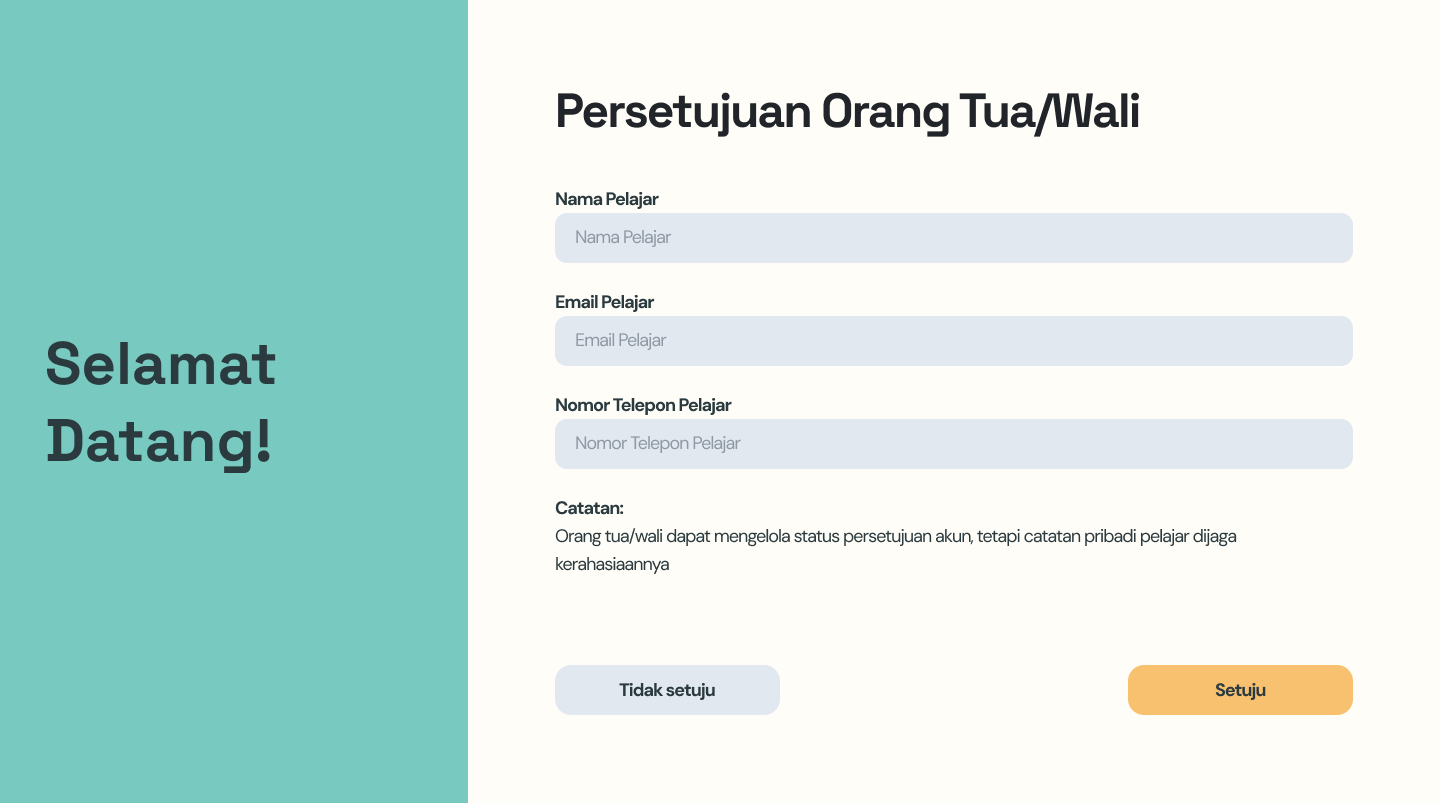
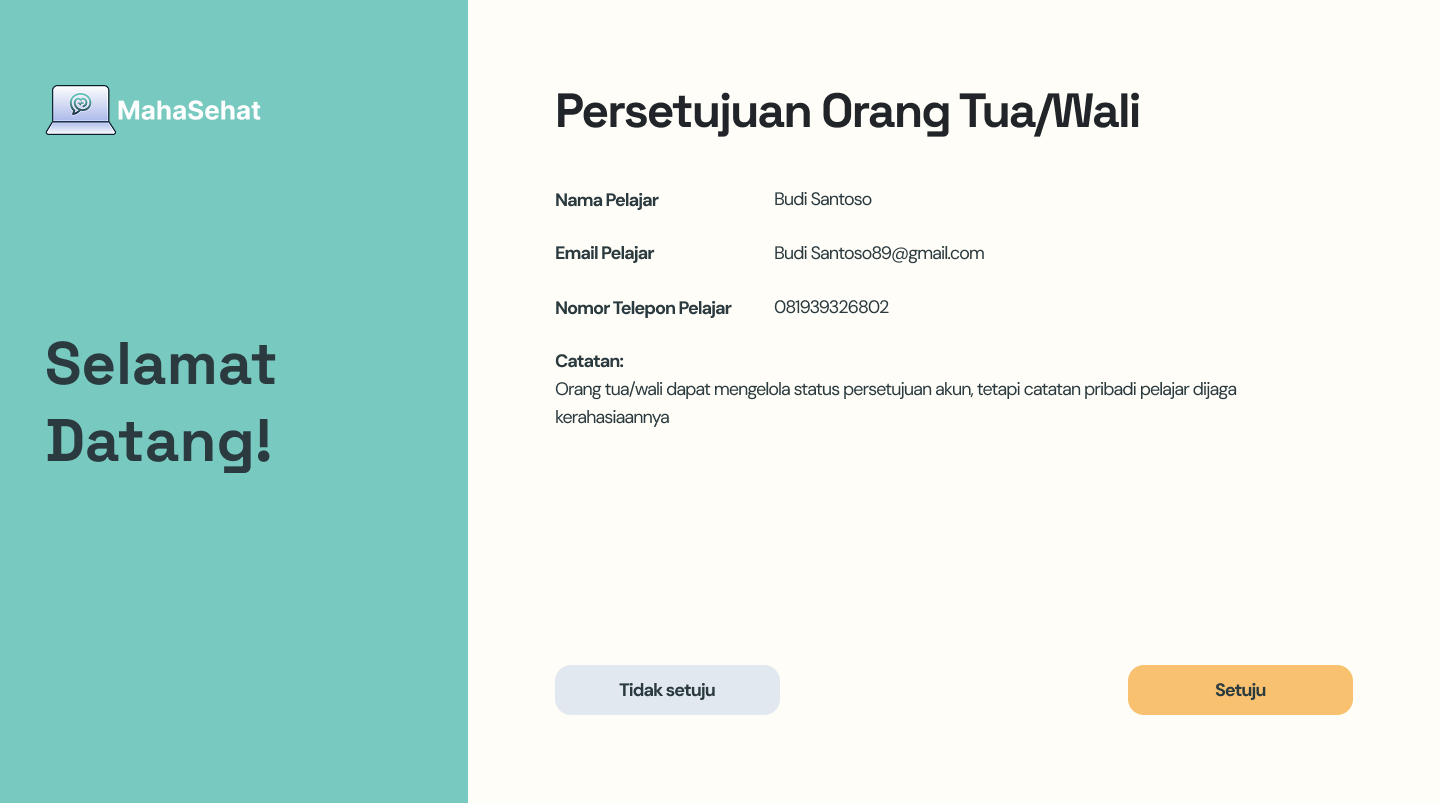
docs: add antarmuka 4-10

diff --git a/docs/M8/K03_G04_DPPL2.md b/docs/M8/K03_G04_DPPL2.md
@@ -2177,9 +2177,10 @@ Tabel 6.1. Spesifikasi Objek Antarmuka I-01
 | Id_Objek | Jenis | Konten | Keterangan |
 | :--- | :--- | :--- | :--- |
 | *Panel_Right* | *Side Panel/Container* | *Berisi semua elemen formulir registrasi* | *Wadah(container) utama di sisi kanan untuk menampung semua komponen interaktif formulir registrasi pelajar.* |
-| *Panel_Left* | *Side Panel/Container* | *Berisi logo MahaSehat dan teks sapaan* | *Wadah (container) visual di sisi kiri layar untuk branding dan teks penyambutan pengguna*. |
+| *Panel_Left* | *Side Panel/Container* | *Berisi logo MahaSehat dan teks sapaan* | *Wadah (container) visual di sisi kiri layar untuk branding dan teks penyambutan pengguna.* |
 | *Logo_App* | *Image/Logo* | *Logo MahaSehat* | *Menampilkan identitas/logo aplikasi MahaSehat di bagian atas panel kiri.* |
 | *Text_Greeting* | *Label/Text Header* | *Teks "Selamat Datang!"* | *Teks judul sapaan pembuka bagi pengguna yang membuka halaman registrasi.* |
+| *Title_Registrasi* | *Text* | *Teks "Daftarkan Akun Anda"* | *Judul halaman yang menandakan ini adalah halaman pendaftaran akun.* |
 | *Tab_Role_Pelajar* | *Button/Tab* | *Teks "Pelajar"* | *Menampilkan formulir pendaftaran khusus peran Pelajar (keadaan aktif).* |
 | *Label_Nama* | *Text* | *Teks "Nama"* | *Label untuk field input nama.* |
 | *Input_Nama* | *Input Text Field* | *Placeholder "Nama"* | *Tempat pengguna (pelajar) memasukkan nama mereka.* |
@@ -2218,9 +2219,10 @@ Tabel 6.2. Spesifikasi Objek Antarmuka I-02
 | Id_Objek | Jenis | Konten | Keterangan |
 | :--- | :--- | :--- | :--- |
 | *Panel_Right* | *Side Panel/Container* | *Berisi semua elemen formulir registrasi* | *Wadah(container) utama di sisi kanan untuk menampung semua komponen interaktif formulir registrasi orang tua/wali.* |
-| *Panel_Left* | *Side Panel/Container* | *Berisi logo MahaSehat dan teks sapaan* | *Wadah (container) visual di sisi kiri layar untuk branding dan teks penyambutan pengguna*. |
+| *Panel_Left* | *Side Panel/Container* | *Berisi logo MahaSehat dan teks sapaan* | *Wadah (container) visual di sisi kiri layar untuk branding dan teks penyambutan pengguna.* |
 | *Logo_App* | *Image/Logo* | *Logo MahaSehat* | *Menampilkan identitas/logo aplikasi MahaSehat di bagian atas panel kiri.* |
 | *Text_Greeting* | *Label/Text Header* | *Teks "Selamat Datang!"* | *Teks judul sapaan pembuka bagi pengguna yang membuka halaman registrasi.* |
+| *Title_Registrasi* | *Text* | *Teks "Daftarkan Akun Anda"* | *Judul halaman yang menandakan ini adalah halaman pendaftaran akun.* |
 | *Tab_Role_OrangTuawali* | *Button/Tab* | *Teks "Orang Tua/Wali"* | *Menampilkan formulir pendaftaran khusus peran Orang Tua/Wali (keadaan aktif).* |
 | *Label_Nama* | *Text* | *Teks "Nama"* | *Label untuk field input nama.* |
 | *Input_Nama* | *Input Text Field* | *Placeholder "Nama"* | *Tempat pengguna (orang tua/wali) memasukkan nama mereka.* |
@@ -2252,9 +2254,10 @@ Tabel 6.3. Spesifikasi Objek Antarmuka I-03
 | Id_Objek | Jenis | Konten | Keterangan |
 | :--- | :--- | :--- | :--- |
 | *Panel_Right* | *Side Panel/Container* | *Berisi semua elemen formulir registrasi* | *Wadah(container) utama di sisi kanan untuk menampung semua komponen interaktif formulir registrasi tenaga kesehatan.* |
-| *Panel_Left* | *Side Panel/Container* | *Berisi logo MahaSehat dan teks sapaan* | *Wadah (container) visual di sisi kiri layar untuk branding dan teks penyambutan pengguna*. |
+| *Panel_Left* | *Side Panel/Container* | *Berisi logo MahaSehat dan teks sapaan* | *Wadah (container) visual di sisi kiri layar untuk branding dan teks penyambutan pengguna.* |
 | *Logo_App* | *Image/Logo* | *Logo MahaSehat* | *Menampilkan identitas/logo aplikasi MahaSehat di bagian atas panel kiri.* |
 | *Text_Greeting* | *Label/Text Header* | *Teks "Selamat Datang!"* | *Teks judul sapaan pembuka bagi pengguna yang membuka halaman registrasi.* |
+| *Title_Registrasi* | *Text* | *Teks "Daftarkan Akun Anda"* | *Judul halaman yang menandakan ini adalah halaman pendaftaran akun.* |
 | *Tab_Role_TenagaKesehatan* | *Button/Tab* | *Teks "Tenaga Kesehatan"* | *Menampilkan formulir pendaftaran khusus peran Tenaga Kesehatan (keadaan aktif).* |
 | *Label_Nama* | *Text* | *Teks "Nama"* | *Label untuk field input nama.* |
 | *Input_Nama* | *Input Text Field* | *Placeholder "Nama"* | *Tempat pengguna (tenaga kesehatan) memasukkan nama mereka.* |
@@ -2272,6 +2275,180 @@ Tabel 6.3. Spesifikasi Objek Antarmuka I-03
 | *Input_KonfirmasiKataSandi* | *Input Text Field* | *Placeholder "Konfirmasi Kata Sandi"* | *Tempat pengguna (tenaga kesehatan) memasukkan ulang kata sandi mereka untuk memastikan kecocokan dengan input sebelumnya. Tipe input "password".* |
 | *Btn_Daftar* | *Button* | *"Daftar"* | *Jika diklik, akan memulai validasi data. Jika valid, akun tenaga kesehatan berhasil dibuat.* |
 | *Link_Masuk* | *Link Text* | *"Sudah memiliki akun? Masuk"* | *Mengarahkan pengguna yang sudah memiliki akun ke masuk akun.* |
+
+## 6.4 Rancangan Antarmuka I-04
+
+**Antarmuka:** *I-04*  
+**Nama Layar:** *RegistrationSuccessPelajarPage*
+
+<p align="center">
+<img alt="Rancangan Antarmuka I-04 - RegistrationSuccessPelajar" src="./assets/antarmuka/akun-berhasil-diajukan.png" width="50%">
+</p>
+<p align="center">
+<i>Gambar 6.4. Rancangan Antarmuka I-04 - RegistrationSuccessPelajarPage</i>
+</p>
+
+Tabel 6.4. Spesifikasi Objek Antarmuka I-04
+
+| Id_Objek | Jenis | Konten | Keterangan |
+| :--- | :--- | :--- | :--- |
+| *Card_Success* | *Box/Card* | *Berisi semua elemen status registrasi* | *Wadah(container) untuk semua elemen notifikasi sukses.* |
+| *Icon_Success* | *Icon* | *Ikon centang dalam lingkaran berwarna hijau* | *Ikon visual yang menandakan registrasi berhasil diajukan.* |
+| *Title_Success* | *Text* | *Teks "Pendaftaran Berhasil Dikirim!"* | *Judul yang menginformasikan bahwa pembuatan akun berhasil diajukan.* |
+| *Desc_Success* | *Text* | *Teks "Pendaftaran akun pelajar berhasil diajukan. Kami telah mengirimkan permintaan persetujuan kepada orang tua/wali Anda untuk mengaktifkan akun."* | *Penjelasan yang mengkonfirmasi pengajuan akun baru dan pengiriman konfirmasi persetujuan kepada orang tua/wali.* |
+| *Btn_Mengerti* | *Button* | *Teks "Mengerti"* | *Jika diklik, akan mengarahkan pengguna (pelajar) kembali ke halaman "RegistrationPagePelajar".* |
+
+## 6.5 Rancangan Antarmuka I-05
+
+**Antarmuka:** *I-05*  
+**Nama Layar:** *RegistrationSuccessPage*
+
+<p align="center">
+<img alt="Rancangan Antarmuka I-04 - RegistrationSuccess" src="./assets/antarmuka/akun-berhasil-dibuat.png" width="50%">
+</p>
+<p align="center">
+<i>Gambar 6.5. Rancangan Antarmuka I-05 - RegistrationSuccessPage</i>
+</p>
+
+Tabel 6.5. Spesifikasi Objek Antarmuka I-05
+
+| Id_Objek | Jenis | Konten | Keterangan |
+| :--- | :--- | :--- | :--- |
+| *Card_Success* | *Box/Card* | *Berisi semua elemen status registrasi* | *Wadah(container) untuk semua elemen notifikasi sukses.* |
+| *Icon_Success* | *Icon* | *Ikon centang dalam lingkaran berwarna hijau* | *Ikon visual yang menandakan registrasi berhasil diajukan.* |
+| *Title_Success* | *Text* | *Teks "Akun Berhasil Dibuat!"* | *Judul yang menginformasikan bahwa pembuatan akun berhasil.* |
+| *Desc_Success* | *Text* | *Teks "Akun Anda telah berhasil dibuat dan siap digunakan. Silakan masuk untuk mulai menjelajah."* | *Penjelasan yang mengkonfirmasi pembuatan akun dan menginstruksikan pengguna untuk masuk akun.* |
+| *Btn_Masuk* | *Button* | *Teks "Masuk"* | *Jika diklik, akan mengarahkan pengguna ke halaman "LoginPage".* |
+
+## 6.6 Rancangan Antarmuka I-06
+**Antarmuka:** *I-06*  
+**Nama Layar:** *KonfirmasiRegistrasiPage*
+
+<p align="center">
+<img alt="Rancangan Antarmuka I-06 - KonfirmasiRegistrasiPage" src="./assets/antarmuka/konfirmasi-registrasi-page.png" width="50%">
+</p>
+<p align="center">
+<i>Gambar 6.6. Rancangan Antarmuka I-06 - KonfirmasiRegistrasiPage</i>
+</p>
+
+Tabel 6.6. Spesifikasi Objek Antarmuka I-06
+
+| Id_Objek | Jenis | Konten | Keterangan |
+| :--- | :--- | :--- | :--- |
+| *Panel_Right* | *Side Panel/Container* | *Berisi semua elemen persetujuan orang tua/wali* | *Wadah(container) utama di sisi kanan untuk menampung rincian data pelajar dan tombol persetujuan.* |
+| *Panel_Left* | *Side Panel/Container* | *Berisi logo MahaSehat dan teks sapaan* | *Wadah (container) visual di sisi kiri layar untuk branding dan teks penyambutan pengguna.* |
+| *Logo_App* | *Image/Logo* | *Logo MahaSehat* | *Menampilkan identitas/logo aplikasi MahaSehat di bagian atas panel kiri.* |
+| *Text_Greeting* | *Label/Text Header* | *Teks "Selamat Datang!"* | *Teks judul sapaan pembuka bagi pengguna yang membuka halaman registrasi.* |
+| *Label_NamaPelajar* | *Text* | *Teks "Nama Pelajar"* | *Label judul untuk informasi nama pelajar.* |
+| *Text_ValNamaPelajar* | *Text Value* | *Teks dinamik nama pelajar* | *Menampilkan nama pelajar yang mengajukan pembuatan akun.* |
+| *Label_EmailPelajar* | *Text* | *Teks "Email Pelajar"* | *Label judul untuk informasi email pelajar.* |
+| *Text_ValEmailPelajar* | *Text Value* | *Teks dinamik email pelajar* | *Menampilkan email pelajar yang mengajukan pembuatan akun.* |
+| *Label_NomorTelpPelajar* | *Text* | *Teks "Nomor Telepon Pelajar"* | *Label judul untuk informasi nomor telepon pelajar.* |
+| *Text_ValueNomorTelpPelajar* | *Text Value* | *Teks dinamik nomor telepon pelajar* | *Menampilkan nomor telepon pelajar yang mengajukan pembuatan akun.* |
+| *Label_Catatan* | *Text* | *Teks "Catatan"* | *Label untuk teks catatan pemberitahuan batas akses.* |
+| *Text_Catatan* | *Text* | *Teks "Orang tua/wali dapat mengelola status persetujuan akun, tetapi catatan pribadi pelajar dijaga kerahasiaannya"* | *Teks penjelas batas akses orang tua/wali untuk menjaga privasi pelajar.* |
+| *Btn_Setuju* | *Button* | *"Setuju"* | *Jika diklik, akan mengubah status akun pelajar menjadi aktif dan siap digunakan.* |
+| *Btn_TidakSetuju* | *Button* | *"Tidak setuju"* | *Mengubah status pengajuan menjadi ditolak.* |
+
+## 6.7 Rancangan Antarmuka I-07
+**Antarmuka:** *I-07*  
+**Nama Layar:** *LoginPage*
+
+<p align="center">
+<img alt="Rancangan Antarmuka I-07 - LoginPage" src="./assets/antarmuka/login-page.png" width="50%">
+</p>
+<p align="center">
+<i>Gambar 6.7. Rancangan Antarmuka I-07 - LoginPage</i>
+</p>
+
+Tabel 6.7. Spesifikasi Objek Antarmuka I-07
+
+| Id_Objek | Jenis | Konten | Keterangan |
+| :--- | :--- | :--- | :--- |
+| *Panel_Right* | *Side Panel/Container* | *Berisi semua elemen formulir masuk akun* | *Wadah(container) utama di sisi kanan untuk menampung semua komponen interaktif formulir masuk akun.* |
+| *Panel_Left* | *Side Panel/Container* | *Berisi logo MahaSehat dan teks sapaan* | *Wadah (container) visual di sisi kiri layar untuk branding dan teks penyambutan pengguna.* |
+| *Logo_App* | *Image/Logo* | *Logo MahaSehat* | *Menampilkan identitas/logo aplikasi MahaSehat di bagian atas panel kiri.* |
+| *Text_Greeting* | *Label/Text Header* | *Teks "Selamat Datang!"* | *Teks judul sapaan pembuka bagi pengguna yang membuka halaman registrasi.* |
+| *Title_Login* | *Text* | *Teks "Masuk Akun"* | *Judul halaman yang menandakan ini adalah halaman masuk akun.* |
+| *Label_Email* | *Text* | *Teks "Email"* | *Label judul untuk field email pengguna.* |
+| *Input_Email* | *Input Text Field* | *Placeholder "Email"* | *Tempat pengguna memasukkan alamat email mereka.* |
+| *Label_KataSandi* | *Text* | *Teks "Kata Sandi"* | *Label untuk field input kata sandi.* |
+| *Input_KataSandi* | *Input Text Field* | *Placeholder "Kata Sandi"* | *Tempat pengguna memasukkan kata sandi akun mereka.* |
+| *Link_LupaPass* | *Link Text* | *"Lupa kata sandi?"* | *Jika diklik, akan mengarahkan pengguna ke halaman atau alur untuk mengganti kata sandi.* |
+| *Btn_Masuk* | *Button* | *"Masuk"* | *Jika diklik, akan memvalidasi email dan password pengguna. Jika valid, pengguna akan masuk ke "Dashboard".* |
+| *Link_Daftar* | *Button* | *"Belum memiliki akun? Daftar"* | *Mengarahkan pengguna yang belum memiliki akun ke halaman daftar akun.* |
+
+## 6.8 Rancangan Antarmuka I-08
+**Antarmuka:** *I-08*  
+**Nama Layar:** *ResetPasswordPage*
+
+<p align="center">
+<img alt="Rancangan Antarmuka I-08 - ResetPasswordPage1" src="./assets/antarmuka/reset-passowrd-page-1.png" width="50%">
+</p>
+<p align="center">
+<i>Gambar 6.8. Rancangan Antarmuka I-08 - ResetPasswordPage1</i>
+</p>
+
+Tabel 6.8. Spesifikasi Objek Antarmuka I-08
+
+| Id_Objek | Jenis | Konten | Keterangan |
+| :--- | :--- | :--- | :--- |
+| *Panel_Right* | *Side Panel/Container* | *Berisi semua elemen formulir "Lupa Kata Sandi"* | *Wadah(container) utama di sisi kanan untuk menampung semua komponen interaktif formulir lupa kata sandi.* |
+| *Panel_Left* | *Side Panel/Container* | *Berisi logo MahaSehat dan teks sapaan* | *Wadah (container) visual di sisi kiri layar untuk branding dan teks penyambutan pengguna.* |
+| *Logo_App* | *Image/Logo* | *Logo MahaSehat* | *Menampilkan identitas/logo aplikasi MahaSehat di bagian atas panel kiri.* |
+| *Text_Greeting* | *Label/Text Header* | *Teks "Pulihkan Akun"* | *Teks judul sapaan untuk pengguna yang lupa kata sandi.* |
+| *Title_LupaPass* | *Text* | *Teks "Lupa Kata Sandi?"* | *Judul halaman yang menandakan ini adalah halaman untuk mengganti kata sandi.* |
+| *Label_Email* | *Text* | *Teks "Email"* | *Label judul untuk field email pengguna.* |
+| *Input_Email* | *Input Text Field* | *Placeholder "Email"* | *Tempat pengguna memasukkan alamat email mereka.* |
+| *Btn_KirimLink* | *Button* | *"Kirim Tautan Atur Ulang"* | *Jika diklik, akan memvalidasi email dan jika valid akan mengirimkan tautan untuk mengatur ulang kata sandi.* |
+| *Link_Masuk* | *Button* | *"Kembali ke Masuk Akun"* | *Mengarahkan pengguna kembali ke halaman masuk akun.* |
+
+## 6.9 Rancangan Antarmuka I-09
+**Antarmuka:** *I-09*  
+**Nama Layar:** *ResetPasswordPage2*
+
+<p align="center">
+<img alt="Rancangan Antarmuka I-08 - ResetPasswordPage2" src="./assets/antarmuka/reset-password-page-2.png" width="50%">
+</p>
+<p align="center">
+<i>Gambar 6.9. Rancangan Antarmuka I-09 - ResetPasswordPage2</i>
+</p>
+
+Tabel 6.9. Spesifikasi Objek Antarmuka I-09
+
+| Id_Objek | Jenis | Konten | Keterangan |
+| :--- | :--- | :--- | :--- |
+| *Panel_Right* | *Side Panel/Container* | *Berisi semua elemen formulir atur ulang kata sandi* | *Wadah(container) utama di sisi kanan untuk menampung semua komponen interaktif formulir atur ulang kata sandi.* |
+| *Panel_Left* | *Side Panel/Container* | *Berisi logo MahaSehat dan teks sapaan* | *Wadah (container) visual di sisi kiri layar untuk branding dan teks penyambutan pengguna.* |
+| *Logo_App* | *Image/Logo* | *Logo MahaSehat* | *Menampilkan identitas/logo aplikasi MahaSehat di bagian atas panel kiri.* |
+| *Text_Greeting* | *Label/Text Header* | *Teks "Pulihkan Akun"* | *Teks judul sapaan untuk pengguna yang lupa kata sandi.* |
+| *Title_AturKataSandi* | *Text* | *Teks "Atur Kata Sandi Baru"* | *Judul halaman yang menandakan ini adalah halaman pengaturan kata sandi baru.* |
+| *Label_KataSandiBaru* | *Text* | *Teks "Kata Sandi Baru"* | *Label untuk field input kata sandi baru.* |
+| *Input_KataSandiBaru* | *Input Text Field* | *Placeholder "Kata Sandi Baru"* | *Tempat pengguna memasukkan kata sandi baru akun mereka.* |
+| *Label_KonfirmasiKataSandiBaru* | *Text* | *Teks "Konfirmasi Kata Sandi Baru"* | *Label untuk field input konfirmasi kata sandi baru.* |
+| *Input_KonfirmasiKataSandiBaru* | *Input Text Field* | *Placeholder "Konfirmasi Kata Sandi Baru"* | *Tempat pengguna memasukkan ulang kata sandi baru akun mereka.* |
+| *Btn_Simpan* | *Button* | *"Simpan Kata Sandi Baru"* | *Jika diklik, akan memvalidasi password baru pengguna. Jika valid, pengguna akan menerima pesan keberhasilan.* |
+
+## 6.10 Rancangan Antarmuka I-10
+**Antarmuka:** *I-10*  
+**Nama Layar:** *PasswordChangedMessage*
+
+<p align="center">
+<img alt="Rancangan Antarmuka I-10 - PasswordChangedMessage" src="./assets/antarmuka/kata-sandi-berhasil-diganti.png" width="50%">
+</p>
+<p align="center">
+<i>Gambar 6.10. Rancangan Antarmuka I-10 - PasswordChangedMessage</i>
+</p>
+
+Tabel 6.10. Spesifikasi Objek Antarmuka I-10
+
+| Id_Objek | Jenis | Konten | Keterangan |
+| :--- | :--- | :--- | :--- |
+| *Card_Success* | *Box/Card* | *Berisi semua elemen konfirmasi* | *Wadah(container) untuk semua elemen notifikasi sukses.* |
+| *Icon_Success* | *Icon* | *Ikon centang dalam lingkaran berwarna hijau* | *Ikon visual yang menandakan operasi berhasil.* |
+| *Title_Success* | *Text* | *Teks "Kata Sandi Berhasil Diubah!"* | *Judul yang menginformasikan bahwa kata sandi berhasil diperbarui.* |
+| *Desc_Success* | *Text* | *Teks "Kata Sandi Anda telah berhasil diperbarui. Silakan gunakan kata sandi baru Anda untuk masuk kembali ke aplikasi dan menikmati layanan kami."* | *Penjelasan yang mengkonfirmasi pembaruan dan menginstruksikan pengguna untuk masuk kembali.* |
+| *Btn_Masuk* | *Button* | *"Masuk"* | *Jika diklik, akan mengarahkan pengguna kembali ke halaman masuk akun.* |
 
 ## 6.Y Rancangan Antarmuka Keseluruhan
 
